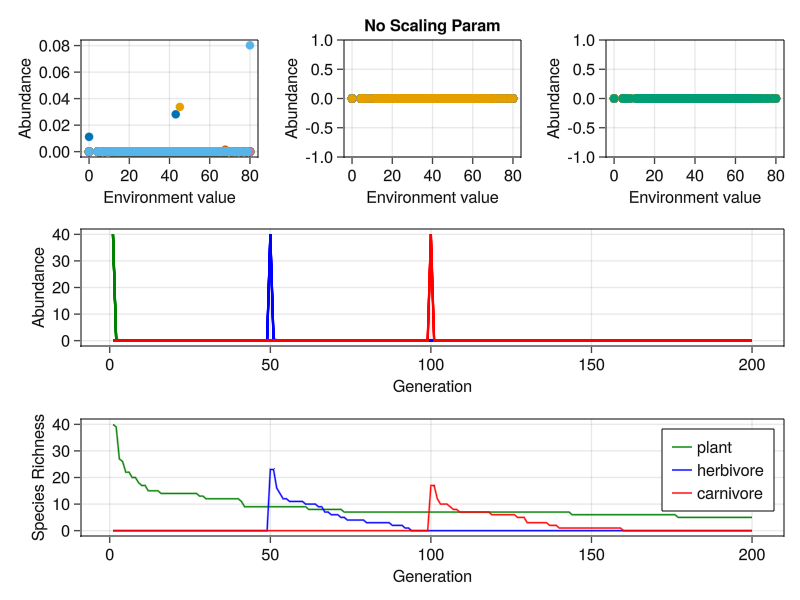
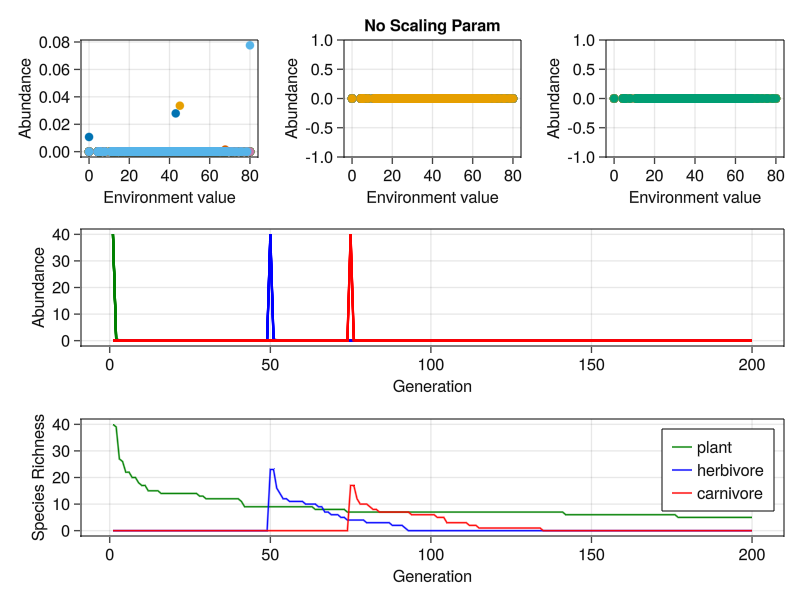
🐜 there was an oopsie but only an ant sized oopsie

diff --git a/README.md b/README.md
@@ -2,21 +2,23 @@
 
 ## Community Dynamics Just aren't a Vibe...
 
-When we use the (what is hopefully) a carbon copy of the original Thompson &
-Gonzales model the abundances for species are just weird and seems to be a plant
-safe space as they are the only species to persist. See below:
+When we use the (what is hopefully) a carbon copy of the original T&G model the
+abundances for species are just weird and seems to be a plant safe space as they
+are the only species to persist. See below:
 
 !['normal model'](figures/diagnostics.png)
 
 ### Test 1: Set all but plant-plant interactions to zero
 
-Here all interactions are zero-ed except for plant-plant interactions. Here we
-can see if the root cause of the sus dynamics is because herbivores and
-carnivores are going extinct...
+Here all interactions are zero-ed except for plant-plant interactions. If the
+non-plants don't persist as long then it means that they were previously at
+least getting _some_ sustenance but now none and then star to death (Alexa thats
+so sad play Despacito).
 
 !['only plant-plant'](figures/diagnostics_only_plant-plant.png)
 
-This could be the case... dynamics (shape-wise seem pretty unchanged)
+Dynamics (shape-wise seem pretty unchanged) so they were previously starving to
+death already???
 
 ### Test 2: Lets ramp up the strength of interactions
 
@@ -27,12 +29,18 @@ Lets start by setting the scaling parameter to zero.
 I did this by multiplying the interaction values by (0.33*S) since that should
 neutralise the original division term, in theory...
 
+> Note I did something naughty and (for this test only) made the time between
+> herbivore and carnivore invasion smaller so that carnivores invade while there
+> are still herbivores in the system. No effect
+
 ### Test 3: Set all interactions to zero
 
 One last hail mary before we try and throw parameters at the problem. Lets set
 _ALL_ interactions to zero and see what happens to the plants.
 
 !['no interactions'](figures/diagnostics_no_interactions.png)
+
+Things seem to be pointing to growth maybe?
 
 ### Test 4: The test that should've been the first test
 
@@ -44,7 +52,7 @@ Looking at the source code for T&G some interesting notes.
 - The seem to have an 'upside down trophic structure' in the sense that they
   have 5 'plants', 7 'herbivores', and 11 'carnivores'
 - All intraspecific interactions are set to 0.2 (all trophic levels)
-- Regarding previous it seems they then 'reset' `carnivore` intraspecific
+- Regarding previous it seems they then 'reset' 'carnivore' intraspecific
   interactions to 0.15
 - weight is defines as '1/80*3' and 80 = S (since there should be 80 species)
   BUT when constructing the food web based on the numbers given on the first
@@ -55,11 +63,12 @@ What is life???
 
 ### Test 5: Lets try scaling of 1/80*3
 
-Since this is the scaling factor used lets give it a try...
+Since this (1/80*3) is the scaling factor used lets give it a try...
 
 !['correct scaling param'](figures/diagnostics_correct_scaling.png)
 
-So the abundance numbers 'match' those from T&G script for what thats worth...
+So the interaction strength numbers 'match' those from T&G script for what thats
+worth...
 
 ### Test 6: Set all initial abundances for same time
 
@@ -84,3 +93,5 @@ Lets go with the inverted trophic level but re-introduce gradual invasions.
 !['inverted trophic levels' but make it gradual invasions](figures/diagnostics_inverted_gradual.png)
 
 Nope!
+
+I hate this...
